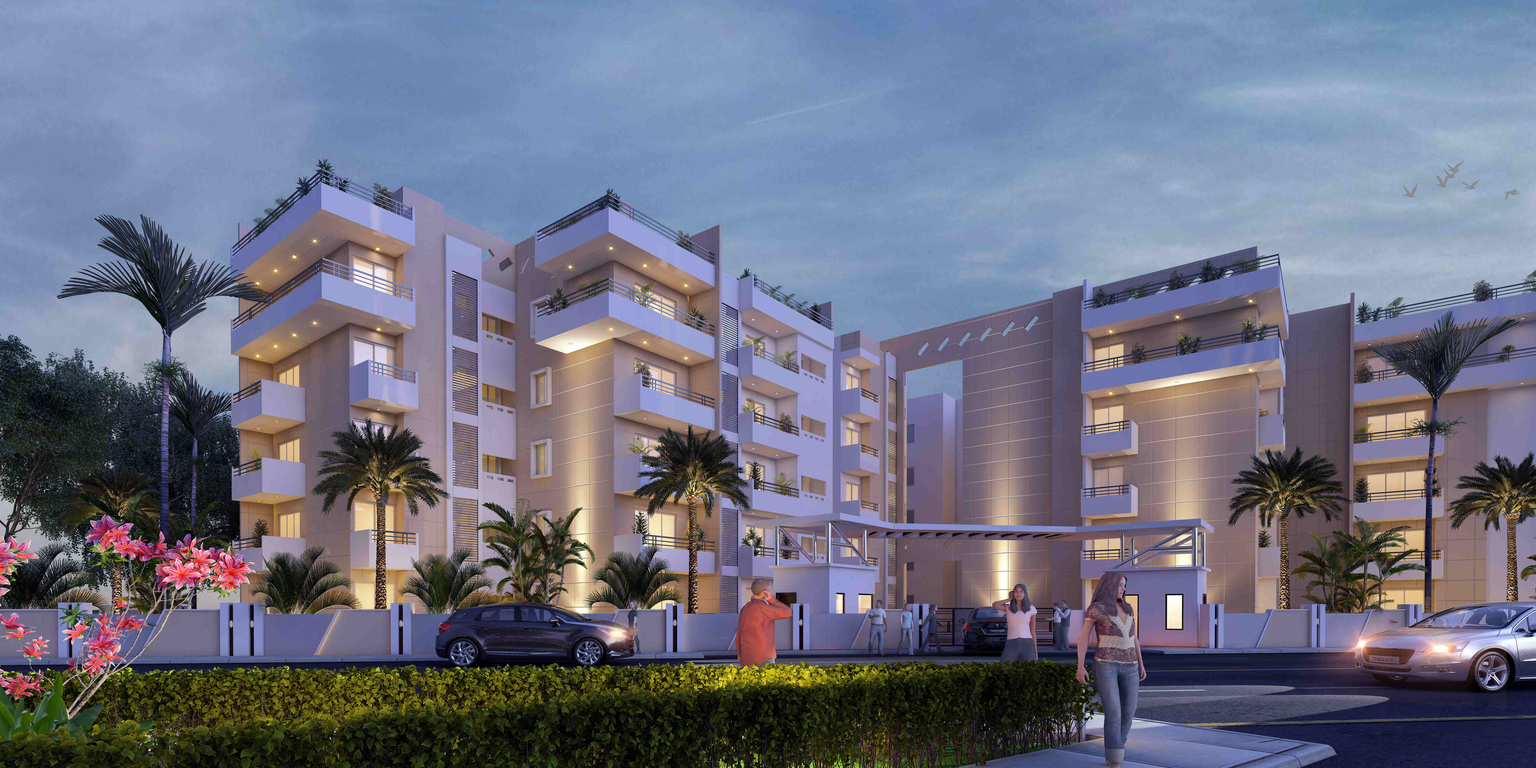
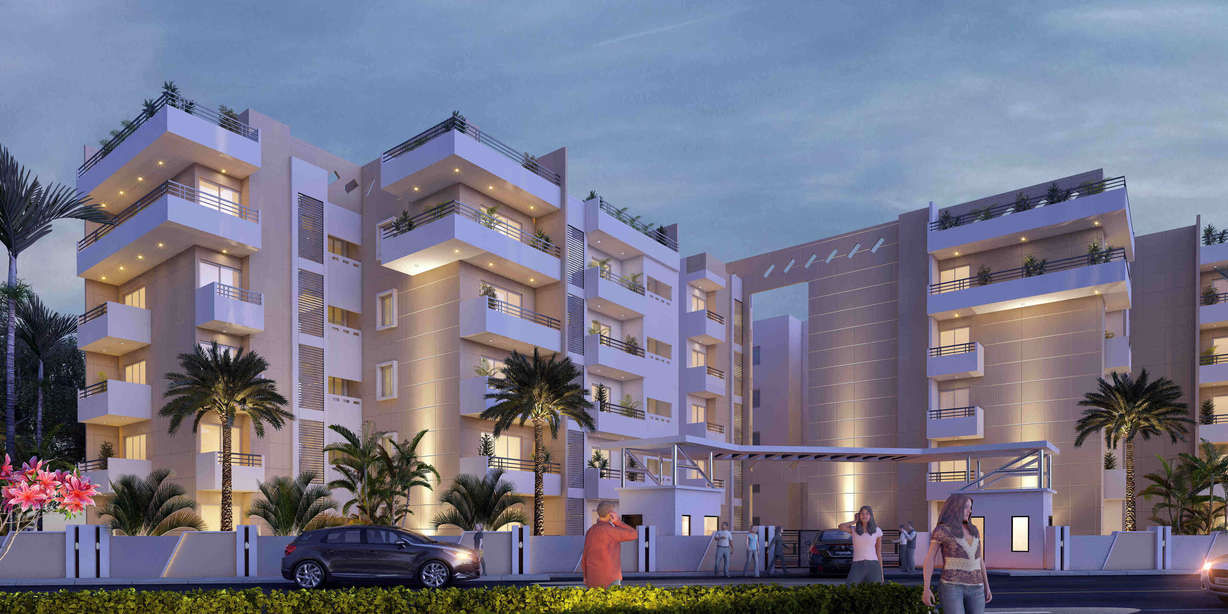
compress images for better performace

diff --git a/index.html b/index.html
@@ -352,7 +352,7 @@
 
                 <div class="col-lg-4 col-md-6 portfolio-item filter-web">
                     <div class="portfolio-wrap">
-                        <img src="images/portfolio/portfolio-1.jpg" class="img-fluid" alt="" style="height: 232.5px;">
+                        <img src="images/portfolio/portfolio-1.jpg" class="img-fluid" alt="" style="height: 232.5px;width: 360px;">
                         <div class="portfolio-info">
                             <div class="portfolio-links">
                                 <a href="images/portfolio/portfolio-1.jpg" data-gallery="portfolioGallery"
@@ -365,7 +365,7 @@
 
                 <div class="col-lg-4 col-md-6 portfolio-item filter-card">
                     <div class="portfolio-wrap">
-                        <img src="images/portfolio/portfolio-2.jpg" class="img-fluid" alt="">
+                        <img src="images/portfolio/portfolio-2.jpg" class="img-fluid" alt="" style="height: 232.5px;;width: 360px;">
                         <div class="portfolio-info">
                             <div class="portfolio-links">
                                 <a href="images/portfolio/portfolio-2.jpg" data-gallery="portfolioGallery"

diff --git a/css/slideshow.css b/css/slideshow.css
@@ -68,21 +68,14 @@ body, html {
 }
 
 .slideshow li:nth-child(3) span {
-  background-image: url(../images/slider3.jpg);
+  background-image: url(../images/slider4.jpg);
   -webkit-animation-delay: 12s;
   -moz-animation-delay: 12s;
   animation-delay: 12s;
 }
 
 .slideshow li:nth-child(4) span {
-  background-image: url(../images/slider4.jpg);
-  -webkit-animation-delay: 18s;
-  -moz-animation-delay: 18s;
-  animation-delay: 18s;
-}
-
-.slideshow li:nth-child(5) span {
-  background-image: url(../images/slider5.jpg);
+  background-image: url(../images/slider3.jpg);
   -webkit-animation-delay: 18s;
   -moz-animation-delay: 18s;
   animation-delay: 18s;
